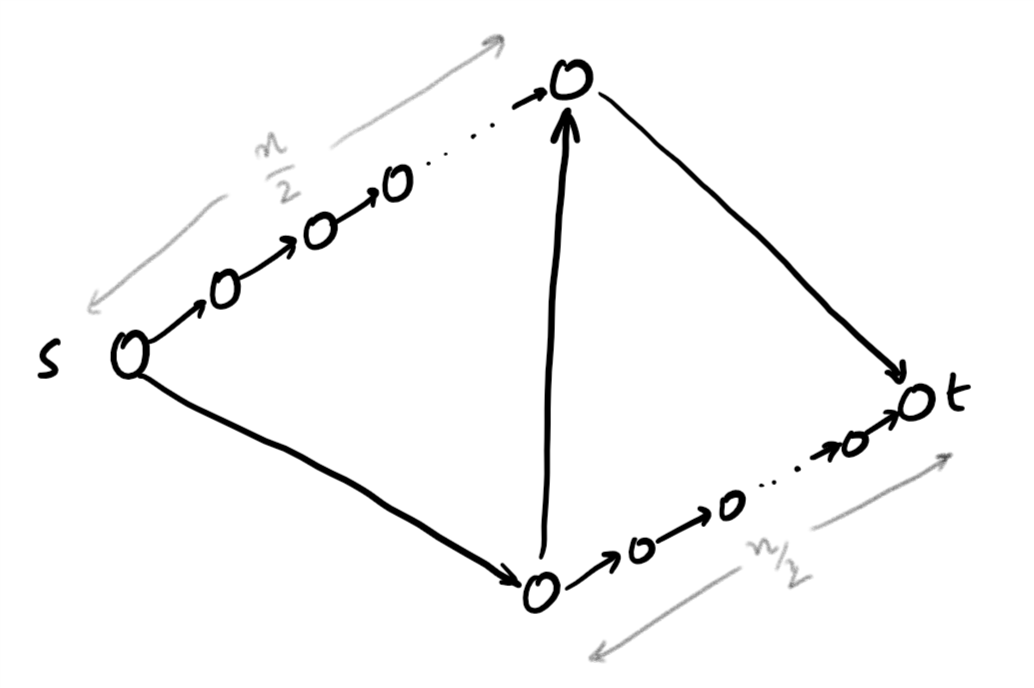
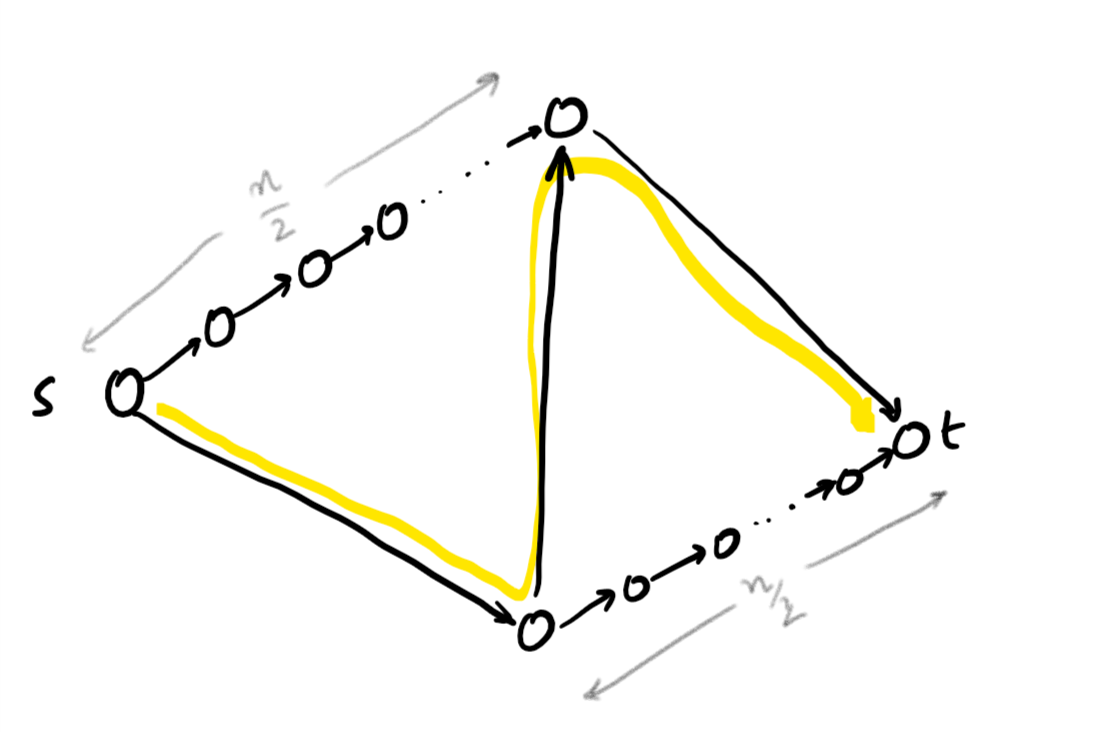
Discussion of example

diff --git a/_posts/2018-10-05-mw-and-flows.md b/_posts/2018-10-05-mw-and-flows.md
@@ -148,18 +148,19 @@ example we did in lecture.
 ![Example for Flows using Multiplicative Weights](/figures/flow-mw.png)
 
 The max-flow is $F = 2$, using the two straight paths. But the zig-zag
-path only uses three edges, as opposed to the $n/2$ for the straight
-paths, so at the start the Hedge-based algorithm really prefers the
-zig-zag path. But eventually, whatever Hedge does, if we want the flow
-to be $(1+\varepsilon)$-approximate, only $O(\varepsilon)$ of the flow
-should use the zig-zag path. And hence, after some time, most of the
-paths the algorithm finds should be the straight paths. Let's see why
-that's the case.
+path (highlighted) only uses three edges, as opposed to the $n/2$ for
+the straight paths, so at the start the Hedge-based algorithm really
+prefers the zig-zag path. But eventually, whatever Hedge does, if we
+want the flow to be $(1+\varepsilon)$-approximate, only $O(\varepsilon)$
+of the flow should use the zig-zag path. And hence, after some time,
+most of the paths the algorithm finds should be the straight
+paths. Let's see why that's the case.
 
 For simplicity, assume that the length of an edge is $e^{\varepsilon
 \cdot \text{load}}$. (The actual lengths are $e^{\varepsilon \cdot
-\text{(load} - \text{number of iterations)} }$, but that does not change
-much and just makes the calculations dirtier.
+\text{(load} - \text{number of iterations)} }$, but dropping the $e^{-
+\varepsilon \text{number of iterations}}$ term from every edge does not
+change anything, and just makes the calculations dirtier.
 
 Consider the situation after some iteration $t$. We've sent $2t$ units
 of flow so far, since we send $F = 2$ units per iteration. Say $\delta
